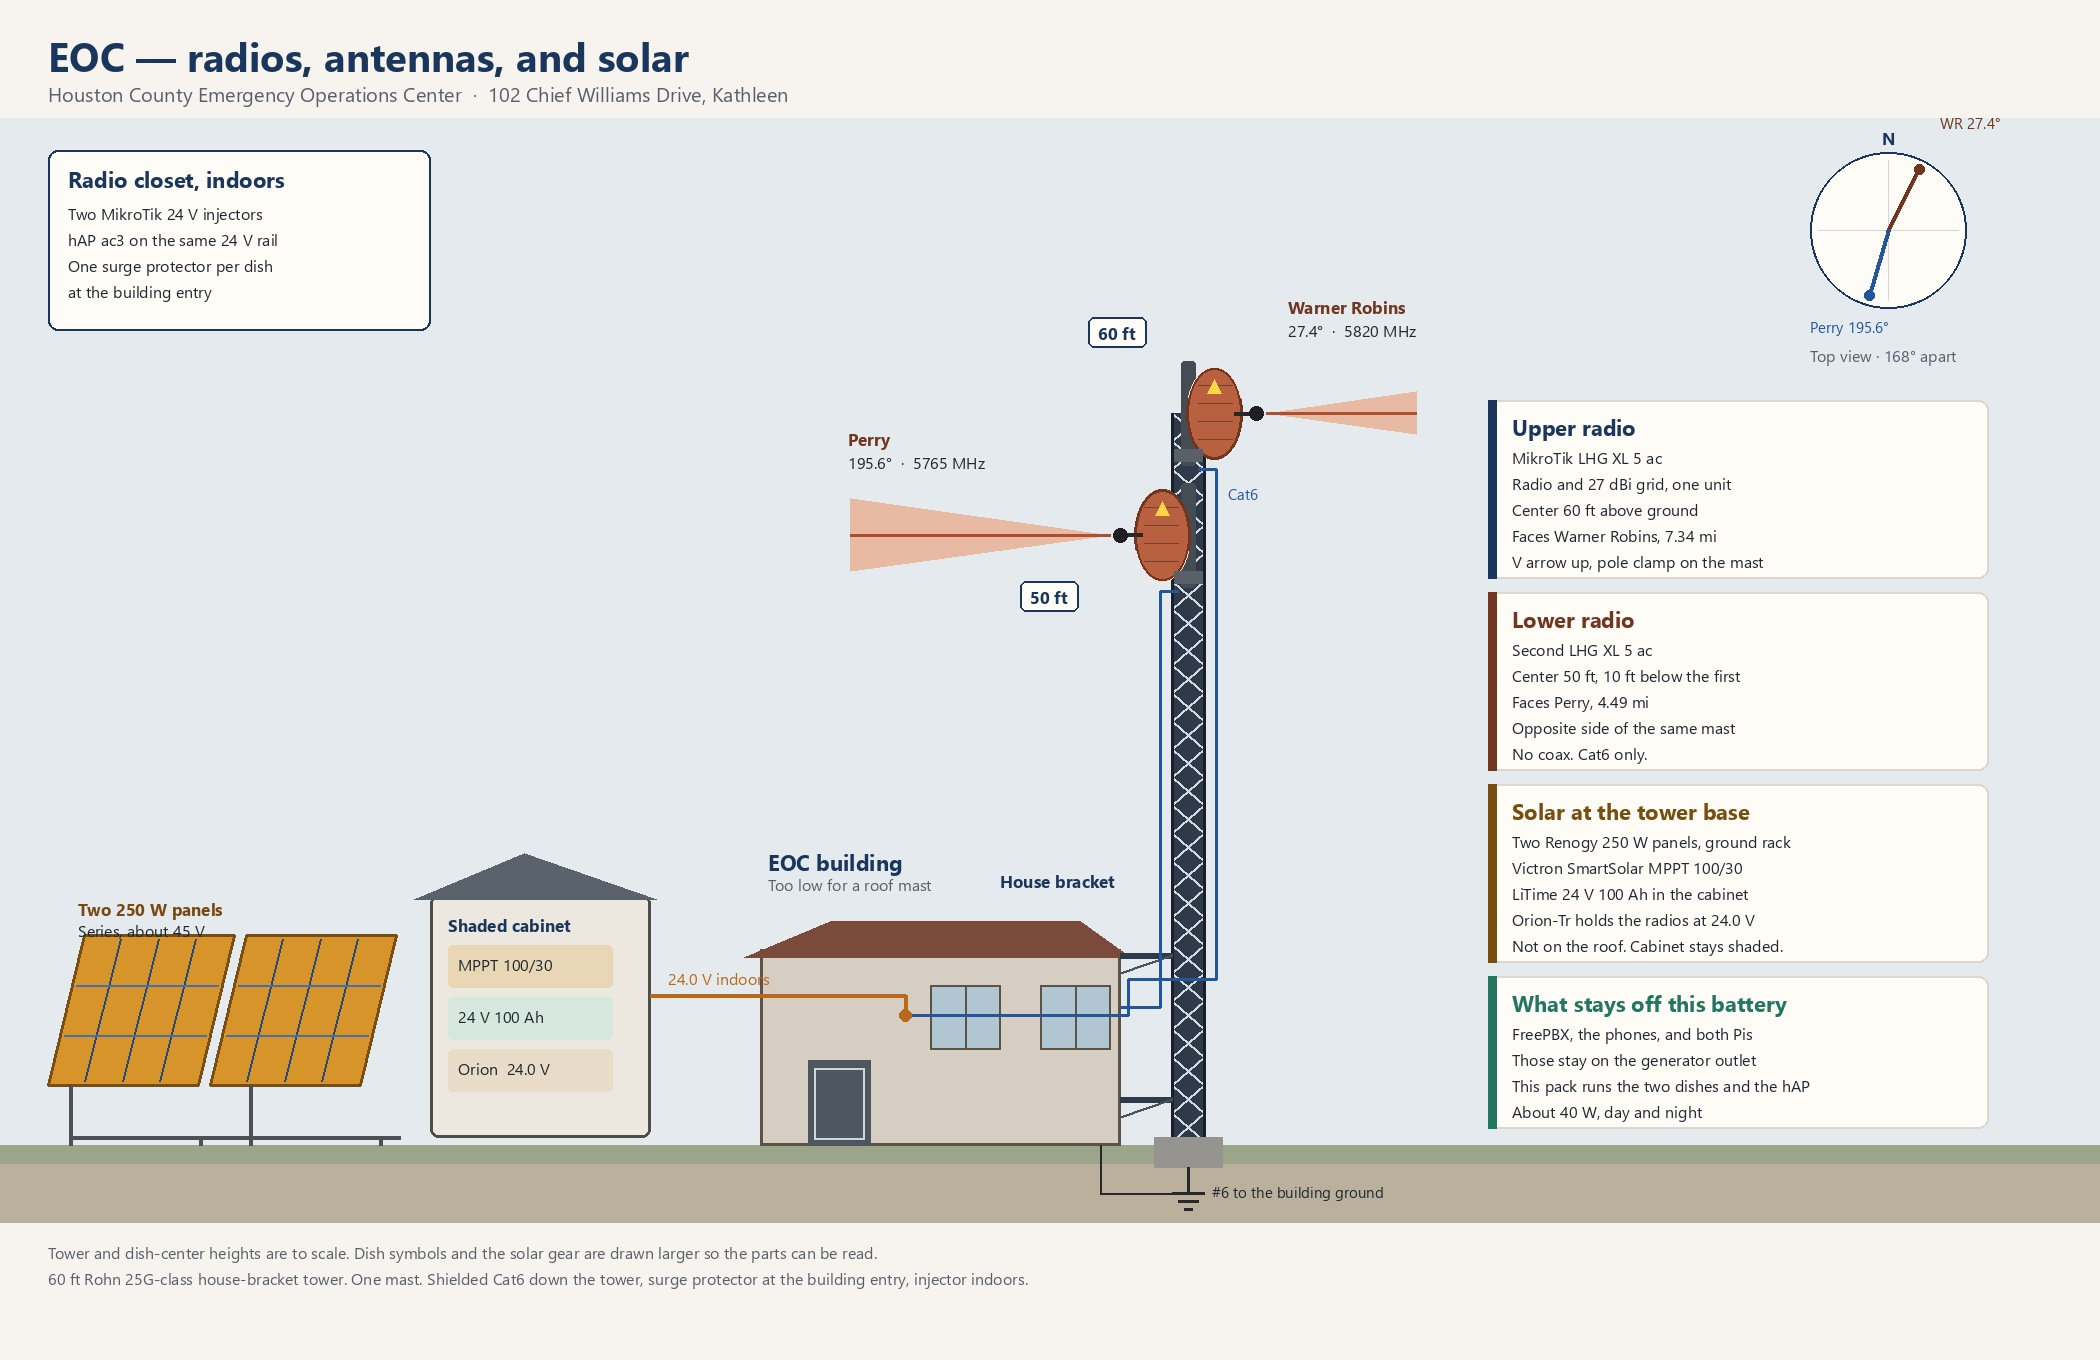
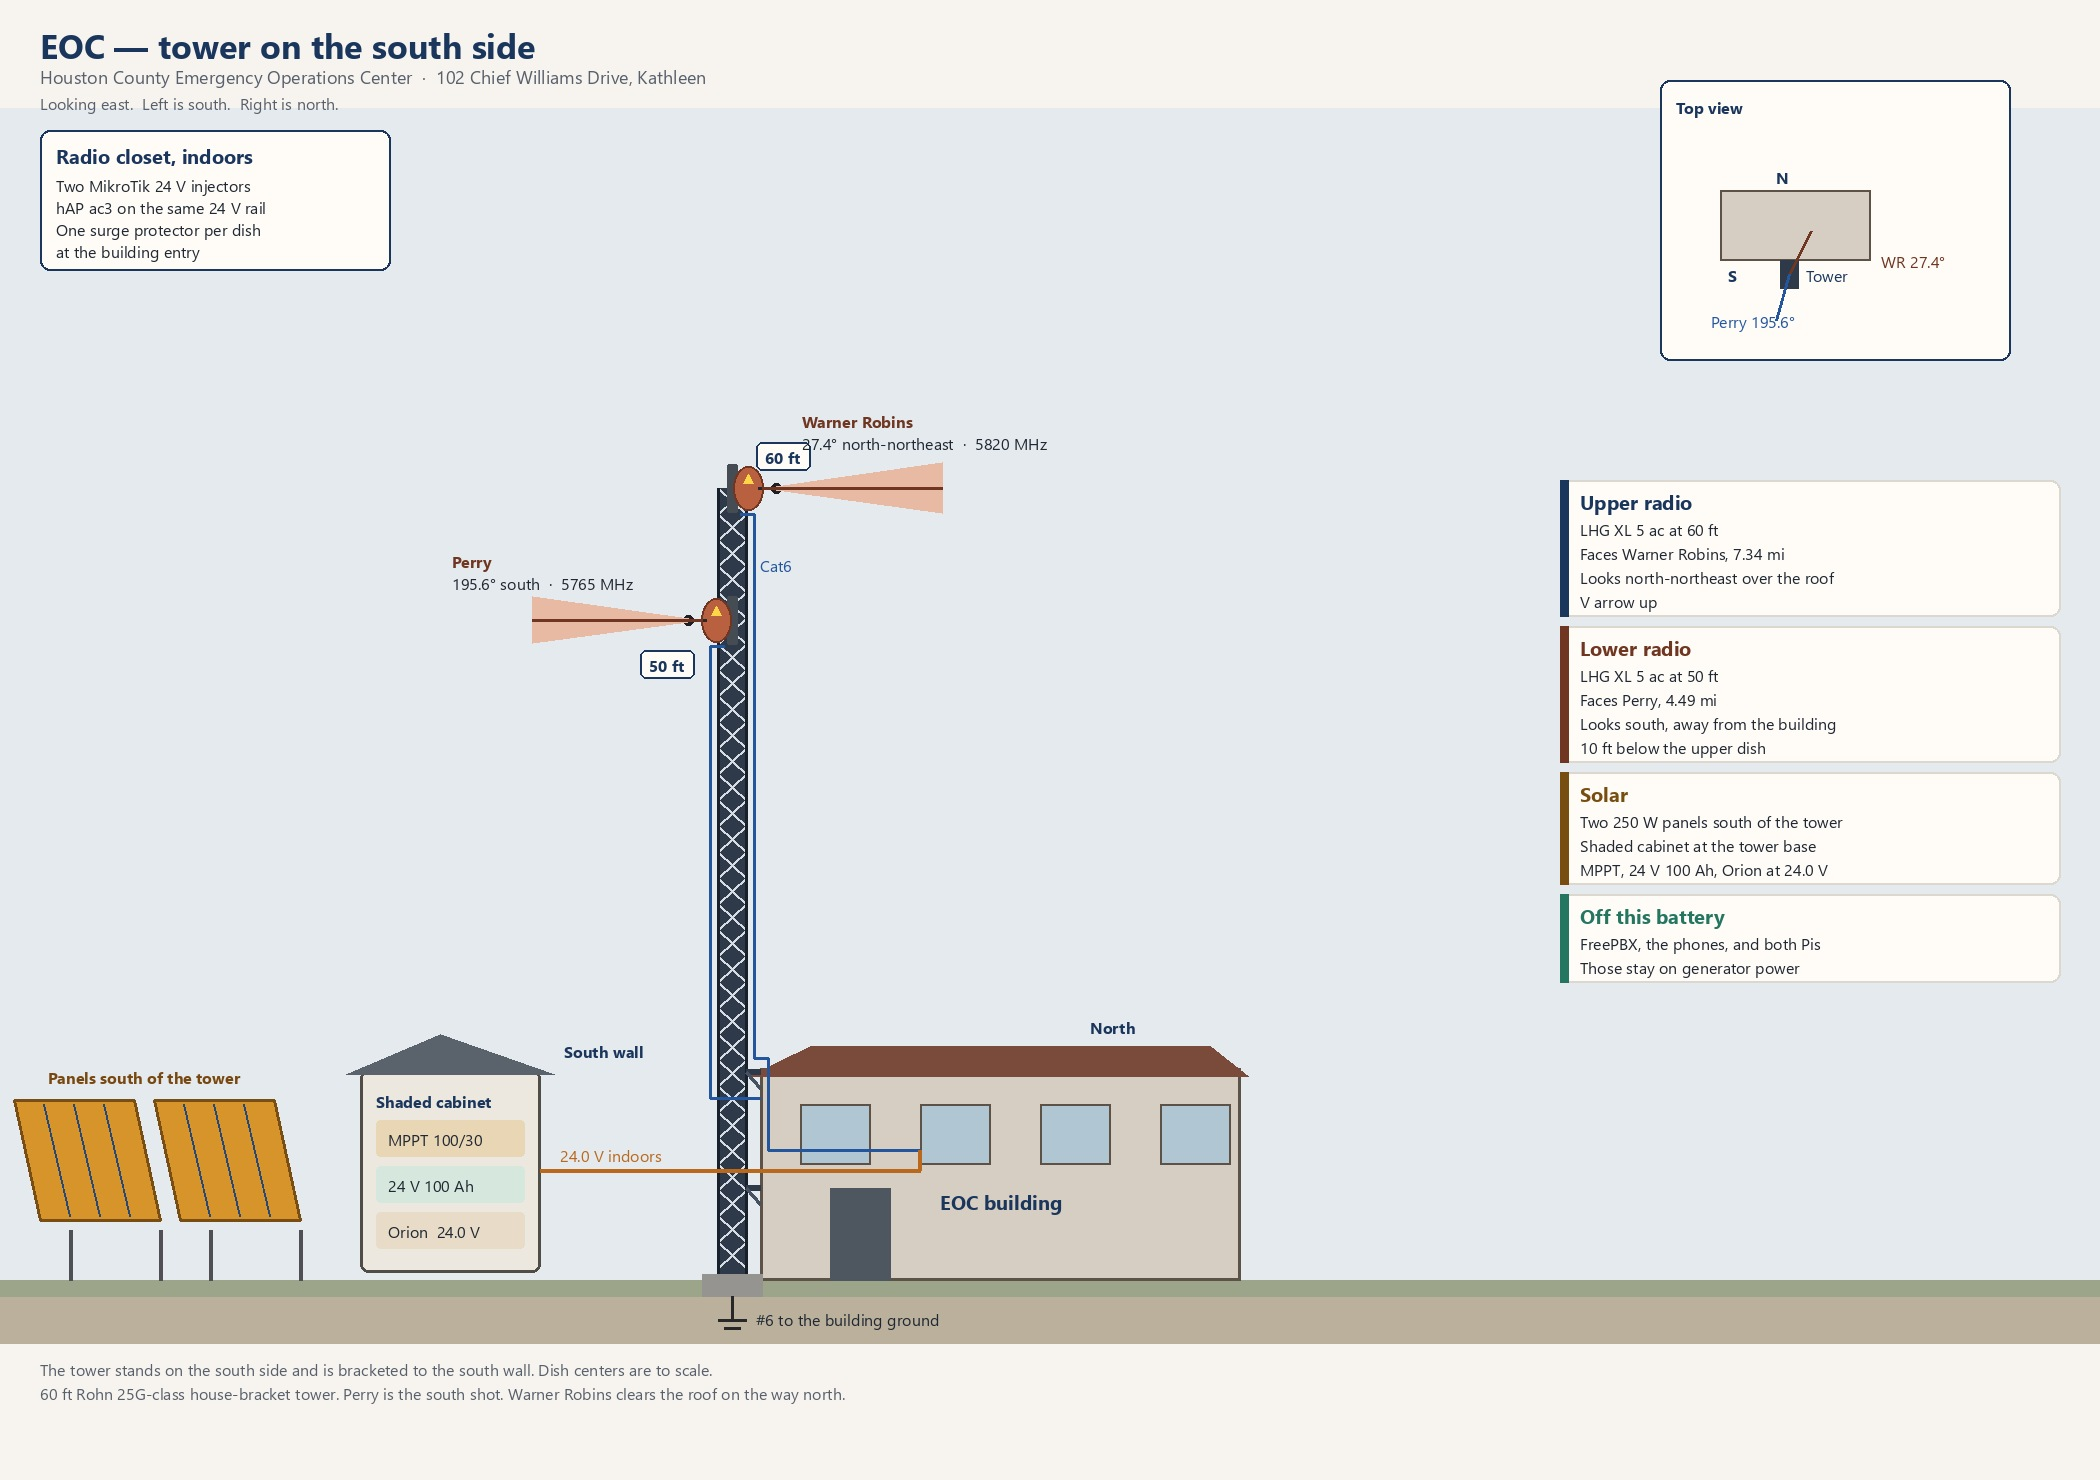
Place the EOC tower on the south side and document the solar power system.

diff --git a/EOC-Solar-Power-System.md b/EOC-Solar-Power-System.md
@@ -1,0 +1,39 @@
+# EOC solar power system
+
+Houston County Emergency Operations Center, 102 Chief Williams Drive, Kathleen, GA 31047.
+
+The solar pack powers the two dish radios and the indoor hAP. FreePBX, the phones, and both Pis stay on the generator outlet. The panels sit on the ground south of the tower. The tower is house-bracketed to the south wall. The cabinet is the shaded NEMA 3R box at the tower base. The mounting drawing is `EOC-Radios-Antennas-Solar.jpg`. The parts inside the cabinet are drawn in `NEMA-3R-Component-Mounting.jpg`. Prices and sources are in `Solar-Power-BOM.csv`.
+
+## What the sun does
+
+Two Renogy 250 W panels, model RSP250DCT-US, are wired in series. Each has an open-circuit voltage of 22.35 V, so the string is about 45 V in standard sun and about 51 V on a cold morning. That is under the controller's 100 V limit. A 15 A breaker opens each leg of the string before the wires enter the cabinet.
+
+The Victron SmartSolar MPPT 100/30, model SCC110030210, takes that string voltage and charges the battery. Set a user-defined 24 V lithium profile. Absorption is 28.4 V. Float is 27.0 V. Equalize is off. Temperature compensation is off.
+
+The battery is one LiTime 24 V 100 Ah LiFePO4. Nameplate energy is about 2,560 Wh. A 40 A fuse sits within 7 inches of the battery positive.
+
+## Why the radios see 24.0 V
+
+The battery rises to 28.4 V while it is charging. The hAP ac3 is limited to 28 V. The dishes accept 10–30 V. A Victron Orion-Tr 24/24-5 isolated converter, model ORI242410110, sits between the battery and the radios. Its output is set to 24.0 V. The output is isolated, so the 24 V negative stays off the battery ground bar. A 10 A fuse is on the Orion input.
+
+From the Orion, a 2 A fuse feeds each dish injector and a third 2 A fuse feeds the hAP. The fourth position on the fuse block is a spare.
+
+## From the cabinet to the radios
+
+The 24.0 V pair leaves the bottom of the cabinet and enters the building. Indoors, each MikroTik injector puts that voltage on the outdoor Cat6. Passive PoE uses pins 4 and 5 positive and pins 7 and 8 negative. One surge protector per dish sits at the building entry, on the outdoor side of the injector. The injectors stay indoors.
+
+Shielded Cat6 runs up the south-side tower. The upper dish, aimed at Warner Robins, is at 60 ft. The lower dish, aimed at Perry, is at 50 ft. The hAP plugs into the same 24 V rail on its 5.5/2 mm jack, center positive.
+
+The radios draw current the whole time they are powered. The site load is about 40 W, about 2 A at 24 V, whether or not anyone is talking. After the loss in the Orion, the battery supplies about 46 W.
+
+## Night and cloud
+
+While the sun is up, the array replaces a day's use. On a normal December day the 500 W of panels makes about 1,300 Wh, and the radios use about 1,100 Wh. The battery carries the hours the sun is down.
+
+One 100 Ah battery holds about 2,000 Wh after an 80 percent discharge. At 46 W that is about 45 hours, a night plus a cloudy day. The battery's own switch opens if a cell falls too low. The Orion's low-voltage shutdown is 14 V, which is too low for this lithium battery, so the battery switch is what stops the discharge. Keep that threshold at or above 22.4 V, which is 2.8 V per cell.
+
+## Ground and heat
+
+One #6 wire bonds the battery negative to the building grounding electrode. The panel frames, the controller case, and the Ethernet surge protectors land on that same bar. The Orion output negative does not.
+
+Shade the cabinet. Do not charge the battery above 113°F. Cable entries are in the bottom of the box. Nothing mounts on the slip-on cover. The box rests on a support at the tower base. The wall screws only keep it from tipping.

diff --git a/EOC-antennas-and-mounting.md b/EOC-antennas-and-mounting.md
@@ -6,14 +6,14 @@ Use two MikroTik LHG XL 5 ac radios. The radio and the 27 dBi grid are one unit.
 
 ## Mounting structure
 
-The fire and emergency management building is too low for a roof mast. Use one 60 ft Rohn 25G-class house-bracket tower on the building. If the structural engineer will not accept a bracket, use a guyed 60 ft tower and keep the anchor allowance.
+The fire and emergency management building is too low for a roof mast. Use one 60 ft Rohn 25G-class house-bracket tower on the south side of the building, bracketed to the south wall. If the structural engineer will not accept a bracket, use a guyed 60 ft tower on that same south side and keep the anchor allowance.
 
 | Dish | Faces | True bearing | Compass if declination is 6.5° W | Center above ground |
 | --- | --- | --- | --- | --- |
 | Upper | Warner Robins | 27.4° | 33.9° | 60 ft |
 | Lower | Perry | 195.6° | 202.1° | 50 ft |
 
-The two shots are 168° apart, so one mast carries both dishes. Put the Warner Robins dish at the top and the Perry dish 10 ft below it. Place the tower where both bearings clear the hose tower, flagpole, and trees on the lot.
+The two shots are 168° apart, so one mast carries both dishes. Put the Warner Robins dish at the top, aimed 27.4°. From the south wall that shot looks north-northeast and clears the low roof. Put the Perry dish 10 ft below it, aimed 195.6°, looking south and away from the building. The survey still has to confirm the hose tower, flagpole, and trees are outside both beams.
 
 These heights clear bare earth with about 22 ft of spare toward Warner Robins and about 15 ft toward Perry. They do not include trees. Walk the pinch point near 32.5534, −83.6700 before ordering steel. Add a foot of antenna height for each foot of tree that stands in the Fresnel.
 
@@ -41,7 +41,7 @@ A path survey ($1,200), an aiming kit ($120), and freight ($250) are paid once f
 1. Get the Houston County building permit and the stamped letter for a 60 ft tower. Run the FAA Notice Criteria Tool first, and file Form 7460-1 if the tool requires it.
 2. Call Georgia 811 before any digging for a base, a ground rod, or a guy anchor.
 3. Have a licensed electrician bond the tower to the building grounding electrode system with #6 copper. Drive a new rod only when the engineer says the building ground cannot be used, and bond that rod to the building ground.
-4. Set the base and house bracket, stack the tower to 60 ft, and plumb it.
+4. Set the base on the south side and house-bracket the tower to the south wall. Stack the tower to 60 ft and plumb it. If the stamp requires guys, keep the anchors out of the Perry beam.
 5. Hang both dishes with the V arrow up. Leave the clamps snug. Upper dish toward Warner Robins at 60 ft, bearing 27.4°. Lower dish toward Perry at 50 ft, bearing 195.6°.
 6. Run shielded outdoor Cat6 in a drip loop, with the connector at the dish pointed down. Put one surge protector per dish at the building entry, on the outdoor side of the 24 V injector, on the same ground as the tower. Keep the injector indoors.
 7. Confirm declination with the NOAA calculator on the install day. A compass only has to land the dish inside the 7° beam. Aim on AREDN SNR with someone at the far end, then lock the clamps at the peak.

diff --git a/DESIGN.md b/DESIGN.md
@@ -117,7 +117,7 @@ Confirm magnetic declination with the NOAA calculator for the install day. Centr
 
 How each site gets there:
 
-- **EOC.** The fire and emergency management building is a low structure. A roof mast will not reach 60 ft above ground. Budget a 60 ft Rohn 25G-class bracket tower on the building, or a guyed tower if the structural engineer rejects a bracket. Put the Warner Robins dish at the top and the Perry dish 10 ft below it. The two look almost opposite directions, so one mast is enough.
+- **EOC.** The fire and emergency management building is a low structure. A roof mast will not reach 60 ft above ground. Budget a 60 ft Rohn 25G-class bracket tower on the south side of the building, bracketed to the south wall, or a guyed tower on that same side if the structural engineer rejects a bracket. Put the Warner Robins dish at the top, aimed north-northeast over the roof, and the Perry dish 10 ft below it, aimed south. The two look almost opposite directions, so one mast is enough.
 - **Warner Robins hospital.** The building is multi-story and the ground is already the high end of every path. Measure the roof. A non-penetrating mount and a short mast make up the difference between the roof and 65 ft above ground. Put the Perry dish about 10 ft lower on the same mast. If the roof is already near 65 ft, use a short pole and keep the 10 ft vertical split.
 - **Perry hospital.** Same roof method, to 50 ft above ground for the EOC dish and 45 ft for the Warner Robins dish.
 

diff --git a/README.md b/README.md
@@ -7,6 +7,7 @@ The network carries on-site FreePBX voice (three phones per building), Citadel e
 - [Design](DESIGN.md) — paths, link budget, antenna heights, software, installation, and approvals
 - [Bill of materials](BOM.csv) — priced lines, sources, and the project total
 - [EOC antennas and mounting](EOC-antennas-and-mounting.md)
+- [EOC solar power system](EOC-Solar-Power-System.md)
 - [Warner Robins antennas and mounting](Warner-Robins-antennas-and-mounting.md)
 - [Perry antennas and mounting](Perry-antennas-and-mounting.md)
 
